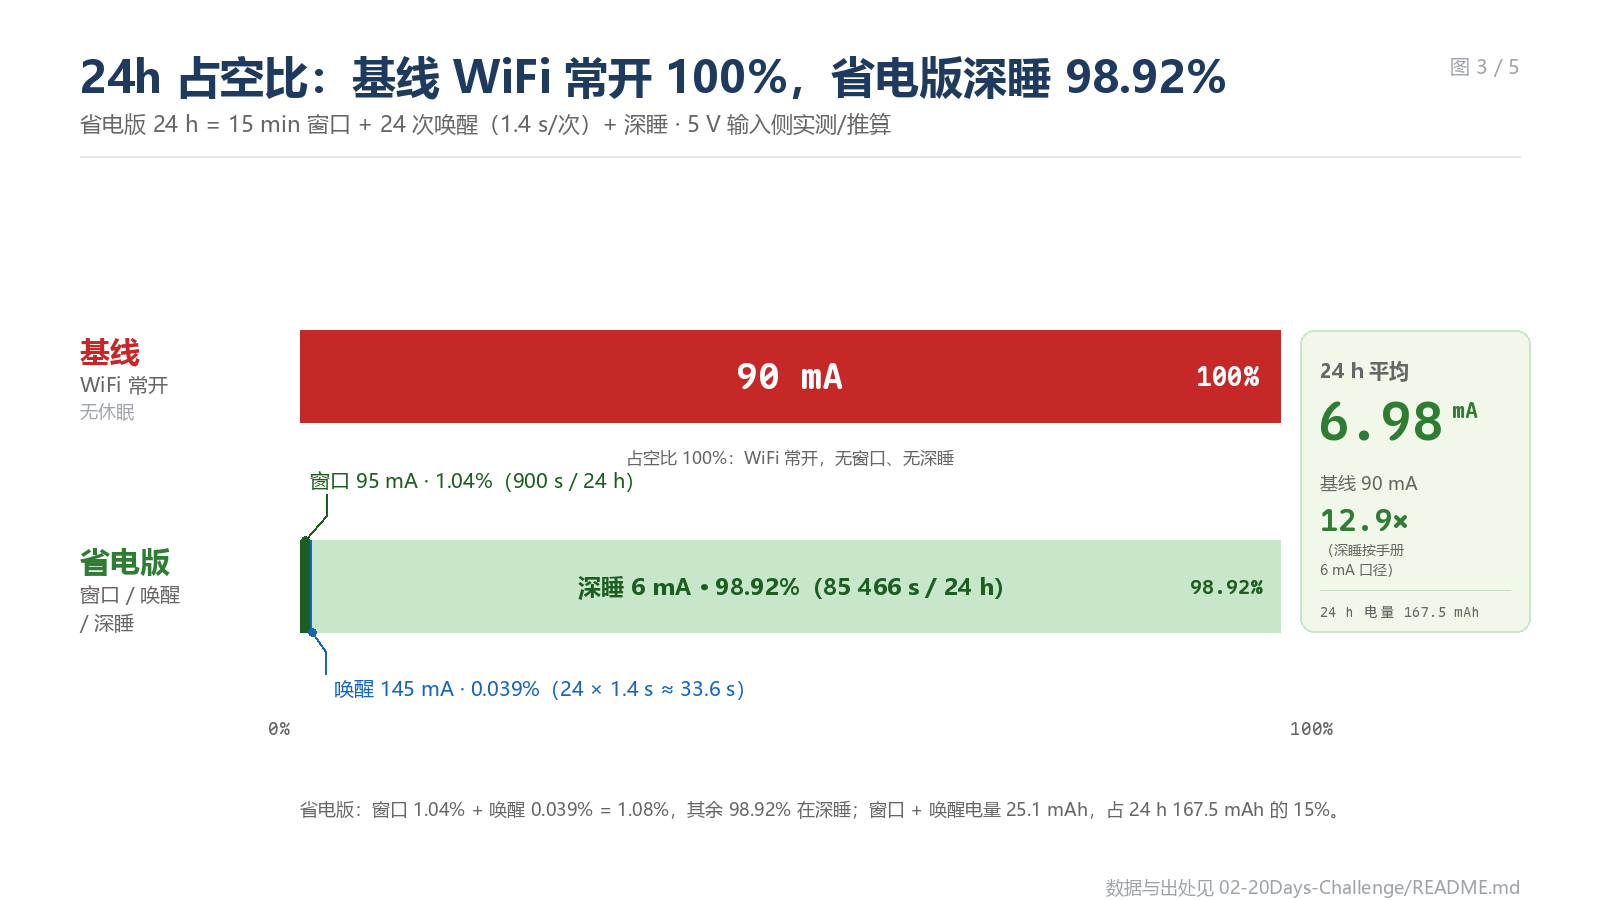
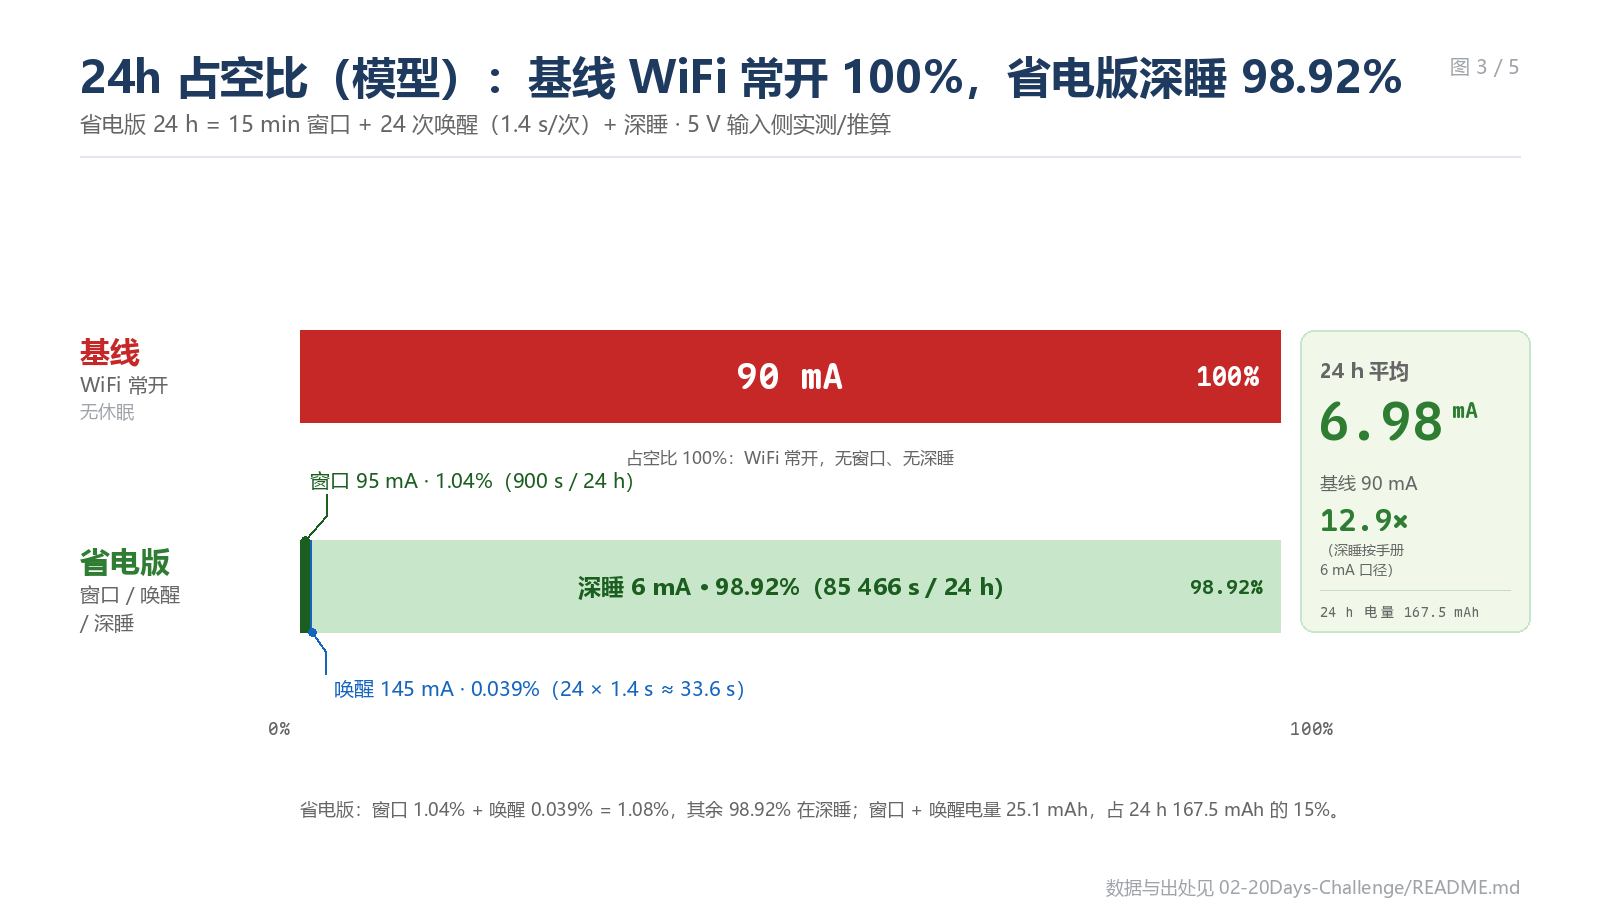
docs(02): 统一模型假设与实测锚点口径
修正 powersave / sleep-demo / theory 中把 95/145/1.4 写成实测的残留；补 viewer 本轮 24h 140 mA 与健康段 90 mA 的区分；图 3/4 标题标模型；修正 F1/F3 验证栏与窗口现场记录口径。

Changed region(s): [[0.1875, 0.0622, 0.875, 0.1244]]

diff --git a/02-20Days-Challenge/measurement/theory.py b/02-20Days-Challenge/measurement/theory.py
@@ -1,8 +1,7 @@
 #!/usr/bin/env python3
 """省电版 24 h 理论功耗推算（口径：5 V 输入侧）。
 
-表只到 0.01 A，深睡电流测不出，所以只把「窗口段」「唤醒拍照段」的实测值代进来，
-深睡项用手册 6 mA + 表上界给区间。
+表只到 0.01 A，深睡与窗口/唤醒都测不出，所以窗口/唤醒用模型假设、深睡用手册 6 mA + 表上界给区间。
 
 用法:
   python3 theory.py
@@ -14,10 +13,10 @@ import json
 
 DAY_S = 86400
 DEFAULT_V = 4.9         # V，2026-11-10 USB 表实测 4.90 V（含表自身压降）
-DEFAULT_I_WIN = 95.0      # mA，2026-11-10 实测「窗口空闲」0.09–0.10 A；开着网页刷页面会到 0.12–0.19 A
+DEFAULT_I_WIN = 95.0      # mA，模型假设（未实测）；历史读数 0.09–0.10 A 只作参考，未作为阶段均值
 DEFAULT_T_WIN = 900.0     # s，冷启动后 WiFi/网页窗口 15 分钟
-DEFAULT_I_WAKE = 145.0    # mA，2026-11-10 /capture 连拍实测 0.13–0.16 A（含 WiFi 空闲，偏保守）
-DEFAULT_T_WAKE = 1.4      # s，单次唤醒（复位→入睡），30 s 固件实测 18:48:34.726→18:48:36.080
+DEFAULT_I_WAKE = 145.0    # mA，模型假设（未实测）；历史连拍 0.13–0.16 A 为模型/探针推断
+DEFAULT_T_WAKE = 1.4      # s，模型假设（未实测）；串口观察 18:48:34.726→18:48:36.080 只作参考
 DEFAULT_WAKES = 24        # 次/天，其余时段每小时唤醒拍照一次
 DEFAULT_I_SLEEP = 6.0     # mA，官方 ESP32-CAM 数据手册 Deep-Sleep 6 mA @5V；旧 5 mA 仅 AMS1117 静态模型，可用 --i-sleep 5 复现
 DEFAULT_I_SLEEP_MAX = 10.0  # mA，表分辨率 0.01 A 给出的上界

diff --git a/02-20Days-Challenge/measurement/make_figures.py b/02-20Days-Challenge/measurement/make_figures.py
@@ -250,7 +250,7 @@ def fig2():
 def fig3():
     img = Image.new("RGB", (W, H), WHITE)
     d = ImageDraw.Draw(img)
-    header(d, "24h 占空比：基线 WiFi 常开 100%，省电版深睡 98.92%",
+    header(d, "24h 占空比（模型）：基线 WiFi 常开 100%，省电版深睡 98.92%",
            "省电版 24 h = 15 min 窗口 + 24 次唤醒（1.4 s/次）+ 深睡 · 5 V 输入侧实测/推算", 3)
     footer(d)
 
@@ -322,7 +322,7 @@ def fig3():
 def fig4():
     img = Image.new("RGB", (W, H), WHITE)
     d = ImageDraw.Draw(img)
-    header(d, "24h 电量预算：2160 mAh → 167.5 mAh（12.9×）",
+    header(d, "24h 电量预算（模型）：2160 mAh → 167.5 mAh（12.9×）",
            "按 24 h 平均电流折算（5 V 输入侧）· 省电版 = 窗口 23.75 + 唤醒 1.36 + 深睡 142.4 mAh", 4)
     footer(d)
 

diff --git a/02-20Days-Challenge/docs/figures/SOURCES.md b/02-20Days-Challenge/docs/figures/SOURCES.md
@@ -83,7 +83,7 @@ distrobox-host-exec python3 /home/binarytree/.fedora/ICEC-2026-0097-CTY/02-20Day
 **源文件 / 口径**
 
 - `process_logs/baseline-viewer-meter-2026-11-10/README.md`（基线常开 90 mA）
-- `process_logs/powersave-meter-2026-11-10/README.md`（窗口 95 mA、唤醒 145 mA、深睡 6 mA）
+- `process_logs/powersave-meter-2026-11-10/README.md`（仅深睡上界；窗口 95 / 唤醒 145 为模型假设）
 - `measurement/current-comparison.csv`
 
 **计算**
@@ -91,10 +91,10 @@ distrobox-host-exec python3 /home/binarytree/.fedora/ICEC-2026-0097-CTY/02-20Day
 | 段 | 时长 | 占空比 | 电流 |
 |---|---|---|---|
 | 基线 WiFi 常开 | 24 h | 100% | 90 mA |
-| 省电版窗口 | 900 s | `900 / 86400` = 1.04% | 95 mA |
-| 省电版唤醒 | `24 × 1.4 s = 33.6 s` | `33.6 / 86400` = 0.039% | 145 mA |
-| 省电版深睡 | 85 466 s | 98.92% | 6 mA |
-| 省电版 24 h 平均 | 24 h | — | **6.98 mA** |
+| 省电版窗口 | 900 s | `900 / 86400` = 1.04% | 95 mA（模型） |
+| 省电版唤醒 | `24 × 1.4 s = 33.6 s` | `33.6 / 86400` = 0.039% | 145 mA（模型） |
+| 省电版深睡 | 85 466 s | 98.92% | 6 mA（手册） |
+| 省电版 24 h 平均 | 24 h | — | **6.98 mA（模型）** |
 
 窗口 + 唤醒合计占空比 1.08%，电量 `23.75 + 1.36 = 25.11 mAh`，占 24 h `167.5 mAh` 的 15%。小段用引线标注，避免在 100% 条上不可见。
 
@@ -105,9 +105,9 @@ distrobox-host-exec python3 /home/binarytree/.fedora/ICEC-2026-0097-CTY/02-20Day
 | 项 | 算式 | 结果 |
 |---|---|---|
 | 基线 | `90 mA × 24 h` | 2160 mAh |
-| 省电版窗口 | `95 mA × 0.25 h` | 23.75 mAh |
-| 省电版唤醒 | `145 mA × 24 × 1.4 s / 3600` | 1.36 mAh |
-| 省电版深睡 | `6 mA × 23.74 h` | 142.4 mAh |
+| 省电版窗口 | `95 mA（模型）× 0.25 h` | 23.75 mAh |
+| 省电版唤醒 | `145 mA（模型）× 24 × 1.4 s / 3600` | 1.36 mAh |
+| 省电版深睡 | `6 mA（手册）× 23.74 h` | 142.4 mAh |
 | 省电版合计 | `23.75 + 1.36 + 142.4` | 167.5 mAh |
 | 倍数 | `2160 ÷ 167.5` | **12.9×** |
 
@@ -121,7 +121,7 @@ distrobox-host-exec python3 /home/binarytree/.fedora/ICEC-2026-0097-CTY/02-20Day
 | P3 拍照 + 写卡 | 100–130 mA | 130–160 mA | 基线为 1 s 表读旁证；省电版 130–160 mA 为模型/探针推断 |
 | P6 常开空闲 | 90 mA | 95 mA | 基线 90 mA 实测；省电版 95 mA 为模型假设 |
 | P4 深睡 | 不适用（基线不休眠） | 6 mA（手册点值）/ ≤10 mA（表上界） | 官方手册 Deep-Sleep 6 mA；表 0.01 A 分辨率只能给上界 |
-| 24 h 平均 | 90 mA（健康空闲） | 6.98 mA（手册口径）/ 10.94 mA（表上界） | 90 mA 与 167.5 mAh 口径；含断网实测为 135.4 mA，见图 2 |
+| 24 h 平均 | 90 mA（健康空闲） | 6.98 mA（模型，手册口径）/ 10.94 mA（模型，表上界） | 90 mA 与 167.5 mAh 口径；含断网实测为 135.4 mA，见图 2 |
 
 对数横轴 1–200 mA，刻度 1 / 10 / 100；区间画成范围条，点值画成条形，P4 基线留空并注明“不适用”。
 

diff --git a/02-20Days-Challenge/firmware/esp32cam-powersave/README.md b/02-20Days-Challenge/firmware/esp32cam-powersave/README.md
@@ -5,7 +5,7 @@
 
 ## 1. 它解决什么
 
-基线 `esp32cam-viewer` 的 WiFi 常开空闲是 `0.09 A`（实测），24 h 平均 `90 mA`。本固件把 WiFi 射频压到每天 15 min，其余时间 deep sleep；拍照仍每小时一次，照片存 SD。24 h 平均电流**模型估算** `6.98–10.94 mA`（官方 6 mA / 表上界 10 mA），相对基线 `8.2–12.9×`；实测锚点只有 `90/140 mA`，深睡 `<0.01 A` 是表上界（省电版测不出来，见 [主 README](../../README.md) 第 4 节）。
+基线 `esp32cam-viewer` 的 WiFi 常开空闲是 `0.09 A`（实测，90 mA）；本轮 24 h 表累计 `16.38 Wh / 135.4 mA`（≈140，含异常档）。本固件把 WiFi 射频压到每天 15 min，其余时间 deep sleep；拍照仍每小时一次，照片存 SD。24 h 平均电流**模型估算** `6.98–10.94 mA`（官方 6 mA / 表上界 10 mA），相对基线 `8.2–12.9×`；实测锚点只有 `90/140 mA`，深睡 `<0.01 A` 是表上界（省电版测不出来，见 [主 README](../../README.md) 第 4 节）。
 
 ## 2. 行为与状态机
 
@@ -78,14 +78,14 @@ static const uint32_t kWebWindowMs = 15UL * 60UL * 1000UL;  // WiFi 窗口
 | event | 含义 |
 |---|---|
 | `CAPTURE` | 拍照，`i_ma` 是该采集周期（含深睡）的平均电流模型值 |
-| `SAMPLE` | 窗口期间每 5 分钟一次，WiFi 开着时按 **95 mA（2026-11-10 实测）** 记 |
+| `SAMPLE` | 窗口期间每 5 分钟一次，WiFi 开着时按 **95 mA（模型假设，未实测）** 记 |
 | `WEB_ON` | 窗口开始（`window_s=0` 表示瞬时事件） |
-| `WEB_CLOSE` | 窗口结束，`window_s=900` 是这 15 分钟的平均电流（同样按实测 95 mA） |
+| `WEB_CLOSE` | 窗口结束，`window_s=900` 是这 15 分钟的平均电流（同样按模型假设 95 mA） |
 
 两点必须知道：
 
 - **深睡期间不写日志**（SD 已卸载），所以 `SAMPLE` 只在窗口内出现；`e_mwh` 把深睡能耗按 `kModelSleepMa`（已按官方手册整板 6 mA 回填；表只能给 ≤10 mA 上界，不是实测值）在入睡时一次性补上。
-- 常量口径：窗口段 `kModelWindowMa = 95 mA` 是 2026-11-10 实测；`kModelSleepMa = 6 mA` 按官方手册整板值回填；`kModelIdleMa` / `kModelShotMa` / `kModelSaveMa` 仍是模型值，等低阻分流补测后回填（万用表无法从源头串入）。
+- 常量口径：窗口段 `kModelWindowMa = 95 mA` 是模型假设（未实测）；`kModelSleepMa = 6 mA` 按官方手册整板值回填；`kModelIdleMa` / `kModelShotMa` / `kModelSaveMa` 仍是模型值，等低阻分流补测后回填（万用表无法从源头串入）。
 - 历史日志不回改：`process_logs/powersave-15h-2026-11-10/POWER.CSV` 生成于回填之前，深睡仍记 5 mA。
 - **冷启动那一小时的 `CAPTURE` 行偏低**：它按“1 小时 − 15 分钟窗口”的模型算，没算窗口本身的电流。看窗口能耗请看 `WEB_CLOSE` 行。
 

diff --git a/02-20Days-Challenge/iterations/README.md b/02-20Days-Challenge/iterations/README.md
@@ -9,9 +9,9 @@
 
 | 轮次 | 固件 | 相对上一轮改了什么 | 动机 | 验证 | 明细 |
 |---|---|---|---|---|---|
-| F1 | [`esp32cam-viewer`](../firmware/esp32cam-viewer/README.md) | 建立基线：每小时一张 JPEG 存 SD，WiFi 全程常开，网页可查图 / 下载 `POWER.CSV` | 没有可比基线就判不出「省了多少」 | 24.00 h 表端点 `2.16 Ah / 10.8 Wh`（`90 mA`）；常开直读 `0.09 A / 5.04 V` | [firmware.md](firmware.md) |
-| F2 | [`esp32cam-powersave`](../firmware/esp32cam-powersave/README.md) | 冷启动开 15 min WiFi 窗口，窗口结束断射频进深睡；定时唤醒只拍照不联网；关摄像头、卸载 SD、睡眠能耗记账 | 常开态的主要负载是射频，不是 CPU | 24 h 平均 `90 mA → 6.98–10.94 mA`；15.20 h 实跑；窗口 `95 mA`；单次唤醒 `1.4–2.1 s` | [firmware.md](firmware.md) |
-| F3 | [`esp32cam-capture-probe`](../firmware/esp32cam-capture-probe/README.md) | 不连 WiFi、不睡眠、按秒连拍写卡，把拍照占空比拉满 | 单次拍照只有 60–90 ms，秒级表抓不到 | 连拍 `0.13–0.16 A`（WiFi 关联下，偏保守的 P3 值） | [firmware.md](firmware.md) |
+| F1 | [`esp32cam-viewer`](../firmware/esp32cam-viewer/README.md) | 建立基线：每小时一张 JPEG 存 SD，WiFi 全程常开，网页可查图 / 下载 `POWER.CSV` | 没有可比基线就判不出「省了多少」 | 健康段 `2.16 Ah / 10.8 Wh`（`90 mA`）；本轮 24 h 表累计 `16.38 Wh / 135.4 mA`（≈140，含异常档）；常开直读 `0.09 A / 5.04 V` | [firmware.md](firmware.md) |
+| F2 | [`esp32cam-powersave`](../firmware/esp32cam-powersave/README.md) | 冷启动开 15 min WiFi 窗口，窗口结束断射频进深睡；定时唤醒只拍照不联网；关摄像头、卸载 SD、睡眠能耗记账 | 常开态的主要负载是射频，不是 CPU | 15.20 h 设备日志；深睡 `<0.01 A` 上界；24 h 平均 `6.98–10.94 mA` / 窗口 `95 mA` / 唤醒 `1.4 s` 为模型（未实测） | [firmware.md](firmware.md) |
+| F3 | [`esp32cam-capture-probe`](../firmware/esp32cam-capture-probe/README.md) | 不连 WiFi、不睡眠、按秒连拍写卡，把拍照占空比拉满 | 单次拍照只有 60–90 ms，秒级表抓不到 | 连拍 `0.13–0.16 A` 是模型/探针推断（WiFi 关联，偏保守；未作为实测） | [firmware.md](firmware.md) |
 
 未落地：CPU 降频（收益上限 `≤0.42 mAh/天`，<0.25 %，但给 OV2640 XCLK / SDMMC 时序引入风险），取舍见 [firmware.md](firmware.md)。
 

diff --git a/02-20Days-Challenge/README.md b/02-20Days-Challenge/README.md
@@ -233,6 +233,8 @@ stateDiagram-v2
 | Deep-Sleep 深度休眠唤醒 | 每小时 timer 唤醒，唤醒只拍照、不连 WiFi；状态与能耗存 `RTC_DATA_ATTR` | `sleepUntil()`、`kCaptureIntervalMs` | ✅ 实机运行 |
 | 时钟降频 | 定量评估后**未启用**：活跃段仅 33.6–50.4 s/天，上限收益 `≤0.42 mAh/天`（<0.25 %），却给 OV2640 XCLK / SDMMC 时序引入风险 | [`state-machine.md` 第 6 节](docs/state-machine.md#6-时钟降频专项点名要求但未落地) | ⚠ 未落地（有定量取舍） |
 
+> “实机运行”指固件跑通并完成拍照/计时，不等于电流实测；省电版窗口/唤醒电流测不出来，见第 4 节。
+
 ### 3.4 代码与复核
 
 | 文件 | 职责 |
@@ -273,7 +275,7 @@ I_avg ≈ 1.05 + 0.989 × I_sleep  (mA)
 | 深睡电流无单板实测，取手册 `6 mA` + 表上界 `10 mA` | 倍数区间 `8.2–12.9×` | 2.5、[`measurement/README.md`](measurement/README.md) |
 | 省电版没有 24 h 表曲线（深睡停表） | 24 h 平均为“模型段 + 深睡点值”推算 | 2.5 |
 | 窗口 95 / 唤醒 145 / 1.4 s 未实测 | `6.98 / 12.9×` 是模型估算，不是实测 | 3.1、3.5 |
-| 基线 P3 的 60–90 ms 平均未单测 | P3 对照用同条件推断 + 1 s 视频旁证 | 1.4 |
+| 基线 P3 的 60–90 ms 平均未单测 | P3 只给定性判断 + 1 s 视频旁证，不写定量实测 | 1.4 |
 | 拍照峰值、P1 稳定均值测不到 | 只给区间/上界，不写单点值 | 1.2、2.5 |
 | 硬件改造（换 LDO、MOSFET、去 LED）未做 | 深睡上限受 AMS1117 限制 | [`docs/ESP32-CAM-Ultra-Low-Power-Solution.md`](docs/ESP32-CAM-Ultra-Low-Power-Solution.md) |
 | 时钟降频未启用 | 三项策略落地 2/3，已给收益/风险表 | 3.3、[`state-machine.md`](docs/state-machine.md) |

diff --git a/02-20Days-Challenge/process_logs/powersave-meter-2026-11-10/README.md b/02-20Days-Challenge/process_logs/powersave-meter-2026-11-10/README.md
@@ -24,7 +24,7 @@
 - `meter_window_idle.mp4`（38.9 s / 1280×720 / 无音轨）
 - `frame_window_idle_9up.jpg`：9 帧拼图，电流在 `0.09` / `0.10 A` 之间来回跳，电压 `4.9 V`，累计 `00047–00048 mWh`，定时 `0:04`
 - `frame_window_idle_setup.jpg`：表和板子同框
-- 与下午独立测量（`measure-record.csv` 的 `P2 窗口空闲` = 90/95/100 mA）一致
+- 与 `measure-record.csv` 的 P2 历史打点（90/95/100 mA）量级一致；该打点已标为模型假设，不作为实测
 
 **表内 `A` 与 `W` 不是一个口径**（用户说明：`W` 是时段平均，`A` 是瞬时）。这 9 帧里 A 已经回到 `0.10 A`（对应 `0.49 W`），W 显示的是上一段的平均 `0.63 W`（≈`0.13 A`）。反过来看累计量：`48 mWh` / 约 7 min ≈ `0.41 W` ≈ `0.084 A`，与 A 字段吻合。所以**功率和能量一律用 `A × V` 或累计 `mWh ÷ 时间` 算，不要用 `W` 反推瞬时电流**。
 
@@ -39,10 +39,10 @@
 
 ## 3. 为什么测不出（串口时间戳给了原因）
 
-| 量 | 实测 | 说明 |
+| 量 | 观察/模型 | 说明 |
 |---|---|---|
 | 拍照本身 | `capture=0 ms`，`save=60–90 ms` | 相机取帧 + 写卡真正干活只有约 0.1 s |
-| 唤醒全程 | `1.4–2.1 s`（复位 → 再入睡） | 大部分是 ROM 引导、相机与 SD 初始化，平均电流也不高 |
+| 唤醒全程 | `1.4–2.1 s`（模型假设/历史观察） | 大部分是 ROM 引导、相机与 SD 初始化，平均电流也不高 |
 | 周期 | `31 s`（深睡 30 s） | 一次拍照只占周期约 3 %，其中“高电流”只占 0.3 % |
 
 表是 0.01 A 分辨率、秒级刷新：

diff --git a/02-20Days-Challenge/process_logs/powersave-15h-2026-11-10/README.md b/02-20Days-Challenge/process_logs/powersave-15h-2026-11-10/README.md
@@ -1,7 +1,7 @@
 # 省电版 15.20 h 运行片段（2026-11-09 21:23 – 2026-11-10 12:35）
 
 > 数据性质：**设备侧模型日志**（`POWER.CSV`，`i_ma` 取自固件常量，回填前窗口 `165 mA`、深睡 `5 mA`；CSV 实际只出现 `165.0` 与 `5.0`，`v5_mv=-1`），不是表实测电流。
-> 说明：**不是 24 h 数据集**。电流表到位后提前结束观测，改为实机实测电流；本目录按“部分数据”归档。
+> 说明：**不是 24 h 数据集**。电流表到位后提前结束观测；后续复核确认省电版窗口/唤醒电流未实测（见 [powersave-meter-2026-11-10](../powersave-meter-2026-11-10/README.md)），本目录按“部分数据”归档。
 
 ## 1. 现场与文件
 
@@ -42,7 +42,7 @@
 
 [baseline-24h-2026-11-09](../baseline-24h-2026-11-09/README.md) 是 viewer 固件的 24 h 主基线（WiFi 常开）；本目录是省电版固件的运行片段，两者口径不同，`POWER.CSV` 事件集也不同（省电版多 `WEB_ON` / `WEB_CLOSE`，深睡期间不写 `SAMPLE`）。
 
-本机的电流表实测证据（深睡档、深睡↔拍照不可分辨、窗口段录屏）见 [powersave-meter-2026-11-10](../powersave-meter-2026-11-10/README.md)。
+本机的现场记录（深睡档上界、深睡↔拍照不可分辨、窗口段录屏；窗口/唤醒未实测）见 [powersave-meter-2026-11-10](../powersave-meter-2026-11-10/README.md)。
 
 ## 5. 能证明 / 不能证明
 

diff --git a/02-20Days-Challenge/iterations/firmware.md b/02-20Days-Challenge/iterations/firmware.md
@@ -6,7 +6,7 @@
 
 - **改动**：`kCaptureIntervalMs = 60 min`，开机先拍一张；WiFi 全程常开；网页提供 `/api.json`、`/IMG_xxxxx.jpg`、`/POWER.CSV`、`/capture`、`/reset`；每 5 分钟向 `POWER.CSV` 追加一行。
 - **动机**：省电版要保留「同样开 WiFi 能查图」的能力才可比，否则会变成拿「不联网」比「联网」。
-- **验证**：24.00 h 表端点 `2.16 Ah / 10.8 Wh`，平均 `90 mA`；常开直读 `0.09 A / 5.04 V`；开网页 `0.11–0.14 A`。原始记录见 [`../process_logs/baseline-viewer-meter-2026-11-10/`](../process_logs/baseline-viewer-meter-2026-11-10/README.md) 与 [`../process_logs/baseline-24h-2026-11-09/`](../process_logs/baseline-24h-2026-11-09/README.md)。
+- **验证**：健康段 `2.16 Ah / 10.8 Wh`，平均 `90 mA`；本轮 24 h 表累计 `16.38 Wh / 135.4 mA`（≈140，含异常档）；常开直读 `0.09 A / 5.04 V`；开网页 `0.11–0.14 A`。原始记录见 [`../process_logs/baseline-viewer-meter-2026-11-10/`](../process_logs/baseline-viewer-meter-2026-11-10/README.md) 与 [`../process_logs/baseline-24h-2026-11-09/`](../process_logs/baseline-24h-2026-11-09/README.md)。
 - **边界**：`POWER.CSV` 按 `kModelIdleMa = 45 mA` 记账且不含 WiFi，是低估值；只能证明拍照时间线，不能当电量。
 
 ## F2 省电版 powersave

diff --git a/02-20Days-Challenge/firmware/esp32cam-sleep-demo/README.md b/02-20Days-Challenge/firmware/esp32cam-sleep-demo/README.md
@@ -4,7 +4,7 @@
 > 作用：网页上切换 4 种模式，对比「正常基线 / WiFi modem sleep / 浅睡 / 深睡」在
 > 同一「30 s 一张、共 5 张」拍照节奏下的网页可达性与 `POWER.CSV` 事件。
 >
-> 口径：2 min 会话是 24 h 的压缩示意，不是真实占空比；省电数字仍以 powersave 的 24 h 实测为准。
+> 口径：2 min 会话是 24 h 的压缩示意，不是真实占空比；省电数字仍以 powersave 的 24 h 模型估算为准。
 > 现场演示脚本与预检见 [DEMO.md](DEMO.md)。
 
 ## 1. 它做什么
@@ -119,7 +119,7 @@ uptime_s,event,window_s,v5_mv,i_ma,p_mw,e_mwh
 | 常量 | 值 | 说明 |
 |---|---|---|
 | `kModelNormalMa` | `110.0` | 正常模式，WiFi 不睡；绝对值仅作上界参考 |
-| `kModelModemMa` | `95.0` | 参考 powersave 窗口实测 `95 mA` 的口径 |
+| `kModelModemMa` | `95.0` | 参考 powersave 窗口模型假设 `95 mA` 的口径 |
 | `kModelAwakeMa` | `45.0` | 醒着但 WiFi 关，240 MHz 空转 + AMS1117 |
 | `kModelShotMa` | `180.0` | 摄像头 init + JPEG 捕获 |
 | `kModelSaveMa` | `50.0` | SD 写入 |

diff --git a/02-20Days-Challenge/firmware/esp32cam-sleep-demo/DEMO.md b/02-20Days-Challenge/firmware/esp32cam-sleep-demo/DEMO.md
@@ -1,7 +1,7 @@
 # 睡眠模式演示：现场流程与预检
 
 > 配套固件：[README.md](README.md)；本页只讲「怎么演示、看什么、出问题怎么退」。
-> 口径：2 min 会话是 24 h 的压缩示意，不是真实占空比；省电数字仍以 powersave 的 24 h 实测为准。
+> 口径：2 min 会话是 24 h 的压缩示意，不是真实占空比；省电数字仍以 powersave 的 24 h 模型估算为准。
 > 当前限制：`POWER.CSV` 的电流是模型值；`normal` / `deep` 的表锚点、录屏、原始日志尚未入库；`modem` / `light` 未实测（测法见 §0，归档见 §5）。
 
 ## 0. 表只能记总量时怎么测

diff --git a/02-20Days-Challenge/firmware/esp32cam-viewer/README.md b/02-20Days-Challenge/firmware/esp32cam-viewer/README.md
@@ -28,6 +28,7 @@
 | P6 常开空闲 | `0.09 A / 5.04 V / 0.45 W` | 表直读 + 24 h 端点 |
 | P6 开网页 | `0.11–0.14 A` | 录屏 |
 | 24 h 健康空闲 | `2.16 Ah / 10.8 Wh`，平均 `90 mA` | 24 h 表端点 |
+| 本轮 24 h（含异常档） | `≈16.38 Wh / 135.4 mA`（≈140） | 表累计 `16384 mWh / 24 h`；12:08 前约 3.8 h 断连 + 之后 8.8 h 仍在 0.18 A 档 |
 | 24 h 异常日（含 ~12.6 h WiFi 断连） | `≈3.25 Ah / ≈16.38 Wh`，平均 `135.4 mA` | 24 h 表累计 |
 | 拍照 + 写卡（P3） | 连拍推断 `130–160 mA`；视频 1 s 表读 `0.10–0.13 A` | 连拍 / 视频 |
 
